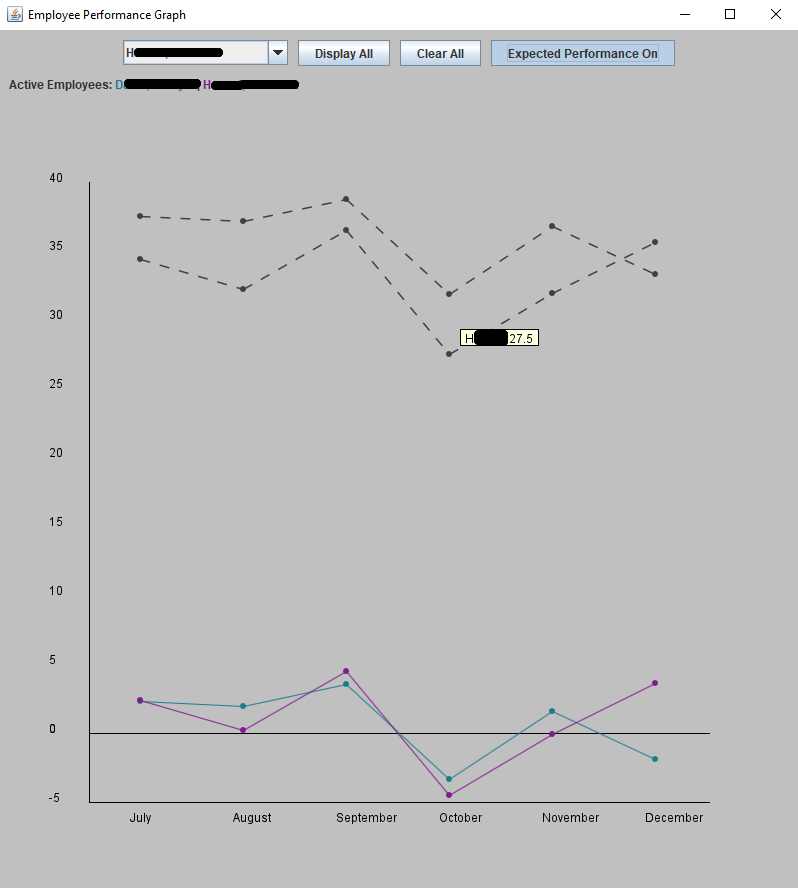
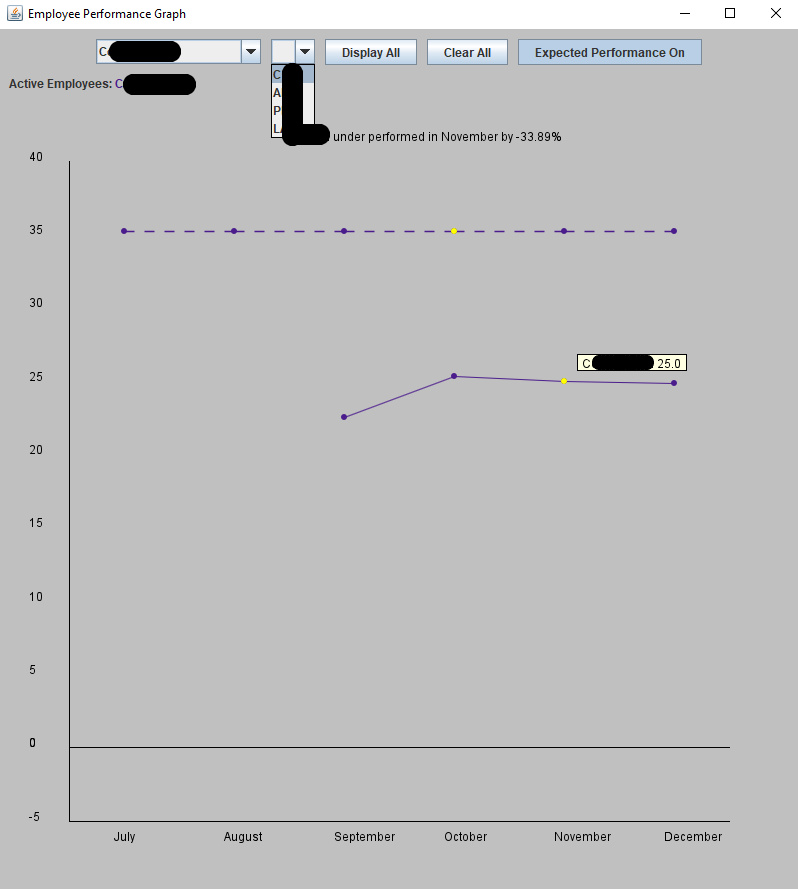
updated image and readme

diff --git a/README.md b/README.md
@@ -16,7 +16,7 @@ Encompassed in 1.0, I created a Java Swing app that visualizes employee metrics 
 
 1.1.2: quality of life features and set for the dropdown menu
 
-1.2.0: Add a feature to allow clicking of two points; after selecting two, the tooltip at the mouse will display the percent gained or lost. Addiitonaly, a feature to determine how far off a specifc point when clicked is from the expected point, and if clicking two points belonging to two different employees, but in the same month, display how much better one performed over the other.
+1.2.0: Add a feature to allow clicking of two points; after selecting two, the tooltip at the mouse will display the percent gained or lost. Addiitonaly, a feature to determine how far off a specifc point when clicked is from the expected point. Clicking between employees was revoked because performance is realitve to expected performance per employee, not a comparison.
 
 1.3.0: Will also add the ability to display certain groups. I know employees are classfied as a group, so another dropdown menu, or control function, will be used to display certain groups. In the CSV file, each employee, in the fifth column, contains their group. This can be added as an attribute.
 
